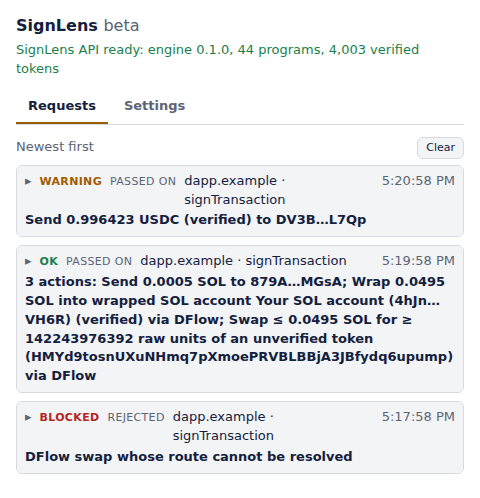
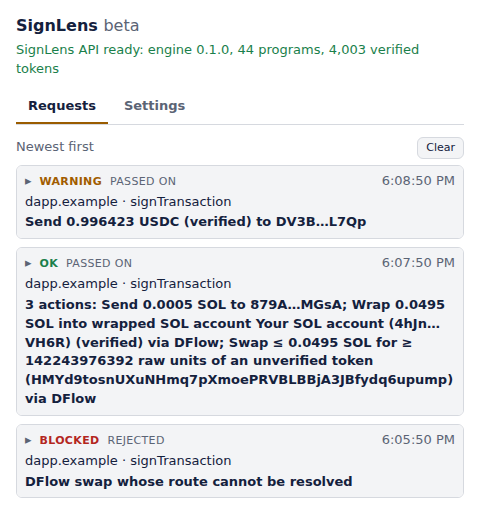
fix(popup): keep a request's site and call whole in its row
A row's first line held the verdict, the outcome, the site and call, and
the time, and only the site and call could give way. A request from
another day shows its date, "Oct 19, 2026, 2:00:00 PM"; beside a long
outcome ("passed on, not asked") that left the call so little room that
it broke inside the word, "signTransactio" above "n".

The verdict, the outcome and the time now share the first line, the time
at its end, and the site and call have a line of their own: every row
has the same shape, and the call is never broken (a long host still
wraps, as it must, since its end tells a lookalike apart). The page
keeps the site before the time, as a screen reader reads the row.
Another day's time drops its seconds, and the full moment shows on
hover.

popup.spec measures, on the text itself, that the call lands on one line
and nothing reaches past the row, for the longest outcome and call today
and a year ago; it fails on the previous layout. The README's popup
screenshot is taken anew.

diff --git a/e2e/popup.spec.ts b/e2e/popup.spec.ts
@@ -3,6 +3,7 @@
 
 import { feePayer, fixture } from '../test/server.ts';
 import { expect, test } from './support/extension.ts';
+import { request } from './support/windows.ts';
 
 const WALLET = 'SignLens';
 
@@ -84,4 +85,44 @@ test('new requests open the popup on them, counted until seen, each with its sum
     await popup.reload();
     await expect(popup.locator('#view-requests')).toBeVisible();
     await expect(popup.locator('#unseen')).toHaveText('1 new');
+});
+
+test("a row's call is never broken inside a word, whatever the length of its date and outcome", async ({ popup, worker }) => {
+    // The longest outcome and call there are, today and in another year, whose date is the longest a row shows.
+    const longest = { method: 'solana:signAndSendTransaction', decision: 'continue', unasked: true } as const;
+    const lastYear = new Date(new Date().getFullYear() - 1, 2, 4, 12, 0).getTime();
+    await worker.evaluate(
+        (history) => chrome.storage.session.set({ history, unseen: 0 }),
+        [request({ ...longest, time: Date.now() }), request({ ...longest, time: lastYear }), request({ time: lastYear - 60_000 })],
+    );
+    await popup.reload();
+    await popup.getByRole('tab', { name: /^Requests/ }).click();
+    const rows = popup.locator('#history > li');
+    await expect(rows).toHaveCount(3);
+    for (let i = 0; i < 3; i += 1) {
+        const where = rows.nth(i).locator('.where');
+        // The lines the call's text lands on, measured on the text itself.
+        const lines = await where.evaluate((node) => {
+            const text = node.textContent ?? '';
+            const call = text.slice(text.lastIndexOf(' ') + 1);
+            const walker = document.createTreeWalker(node, NodeFilter.SHOW_TEXT);
+            for (let at = walker.nextNode(); at; at = walker.nextNode()) {
+                const start = (at.textContent ?? '').indexOf(call);
+                if (start < 0) continue;
+                const range = document.createRange();
+                range.setStart(at, start);
+                range.setEnd(at, start + call.length);
+                return new Set([...range.getClientRects()].map((rect) => Math.round(rect.top))).size;
+            }
+            return 0;
+        });
+        expect(lines, (await where.textContent()) ?? '').toBe(1);
+        // And nothing in the row reaches past it.
+        const line = rows.nth(i).locator('.row-line');
+        expect(await line.evaluate((node) => node.scrollWidth <= node.clientWidth)).toBe(true);
+    }
+    // Today's by the time; another day's by the date and the minute; each in full on hover.
+    await expect(rows.nth(0).locator('time')).toHaveText(/^\d{1,2}:\d{2}:\d{2}\s[AP]M$/);
+    await expect(rows.nth(1).locator('time')).toHaveText(/^Mar 4, \d{4}, 12:00\s[AP]M$/);
+    await expect(rows.nth(1).locator('time')).toHaveAttribute('title', /March 4, \d{4}/);
 });

diff --git a/src/ui/popup.ts b/src/ui/popup.ts
@@ -353,16 +353,21 @@ async function showSites(): Promise<void> {
 /** Whether rows open on their instructions: the reader's last choice, kept in storage. */
 let showInstructions = false;
 
-/** When a request came: the time for today's, the date and the time for another day's. */
+/**
+ * When a request came: the time for today's; the date and the minute for
+ * another day's, short enough that the row keeps its room for the site.
+ * The full moment is in the element, and shown on hover.
+ */
 function when(time: number): HTMLTimeElement {
     const at = new Date(time);
     const today = at.toDateString() === new Date().toDateString();
     const node = element(
         'time',
         '',
-        today ? at.toLocaleTimeString() : at.toLocaleString(undefined, { dateStyle: 'medium', timeStyle: 'medium' }),
+        today ? at.toLocaleTimeString() : at.toLocaleString(undefined, { dateStyle: 'medium', timeStyle: 'short' }),
     );
     node.dateTime = at.toISOString();
+    node.title = at.toLocaleString(undefined, { dateStyle: 'full', timeStyle: 'medium' });
     return node;
 }
 
@@ -389,7 +394,10 @@ function historyRow(entry: HistoryEntry, row: Row, part?: number): HTMLElement {
     // What became of it sits by the verdict, where it cannot be cut off.
     const outcome = became(entry, consent);
     if (outcome) head.append(element('span', 'decision', outcome), ' ');
-    head.append(element('span', 'where', `${withoutScheme(entry.origin)} · ${methodName(entry.method)}`), ' ', when(entry.time));
+    // The host may break anywhere, as a long one must; the call only as a whole.
+    const where = element('span', 'where', `${withoutScheme(entry.origin)} · `);
+    where.append(element('span', 'call', methodName(entry.method)));
+    head.append(where, ' ', when(entry.time));
     summary.append(head);
     // The one line that says what it is, under the where and when.
     summary.append(' ', element('div', 'lead', summaryOf(row)));

diff --git a/static/style.css b/static/style.css
@@ -205,14 +205,23 @@ summary:focus-visible {
     outline-offset: -2px;
 }
 
-/* The whole host, wrapped if need be: its end is what tells a lookalike apart. */
+/* The whole host, wrapped if need be: its end is what tells a lookalike
+   apart. The call (signTransaction) is never broken inside a word. */
 summary .where {
-    flex: 1;
+    order: 1;
+    flex: 1 0 100%;
     min-width: 0;
     overflow-wrap: anywhere;
 }
 
+summary .where .call {
+    white-space: nowrap;
+}
+
 summary time {
+    flex: none;
+    margin-left: auto;
+    white-space: nowrap;
     color: var(--muted);
     font-variant-numeric: tabular-nums;
 }
@@ -800,9 +809,15 @@ body.consent .aside {
     margin-top: 0;
 }
 
+/* A row's head: the verdict, what became of it and when on the first line,
+   the time at its end; the site and the call on a line of their own, so
+   neither a long date nor a long outcome can squeeze them. They come before
+   the time in the page, as a screen reader reads the row. */
 .row-line {
     display: flex;
-    gap: 8px;
+    flex-wrap: wrap;
+    column-gap: 8px;
+    row-gap: 2px;
     align-items: baseline;
 }
 
